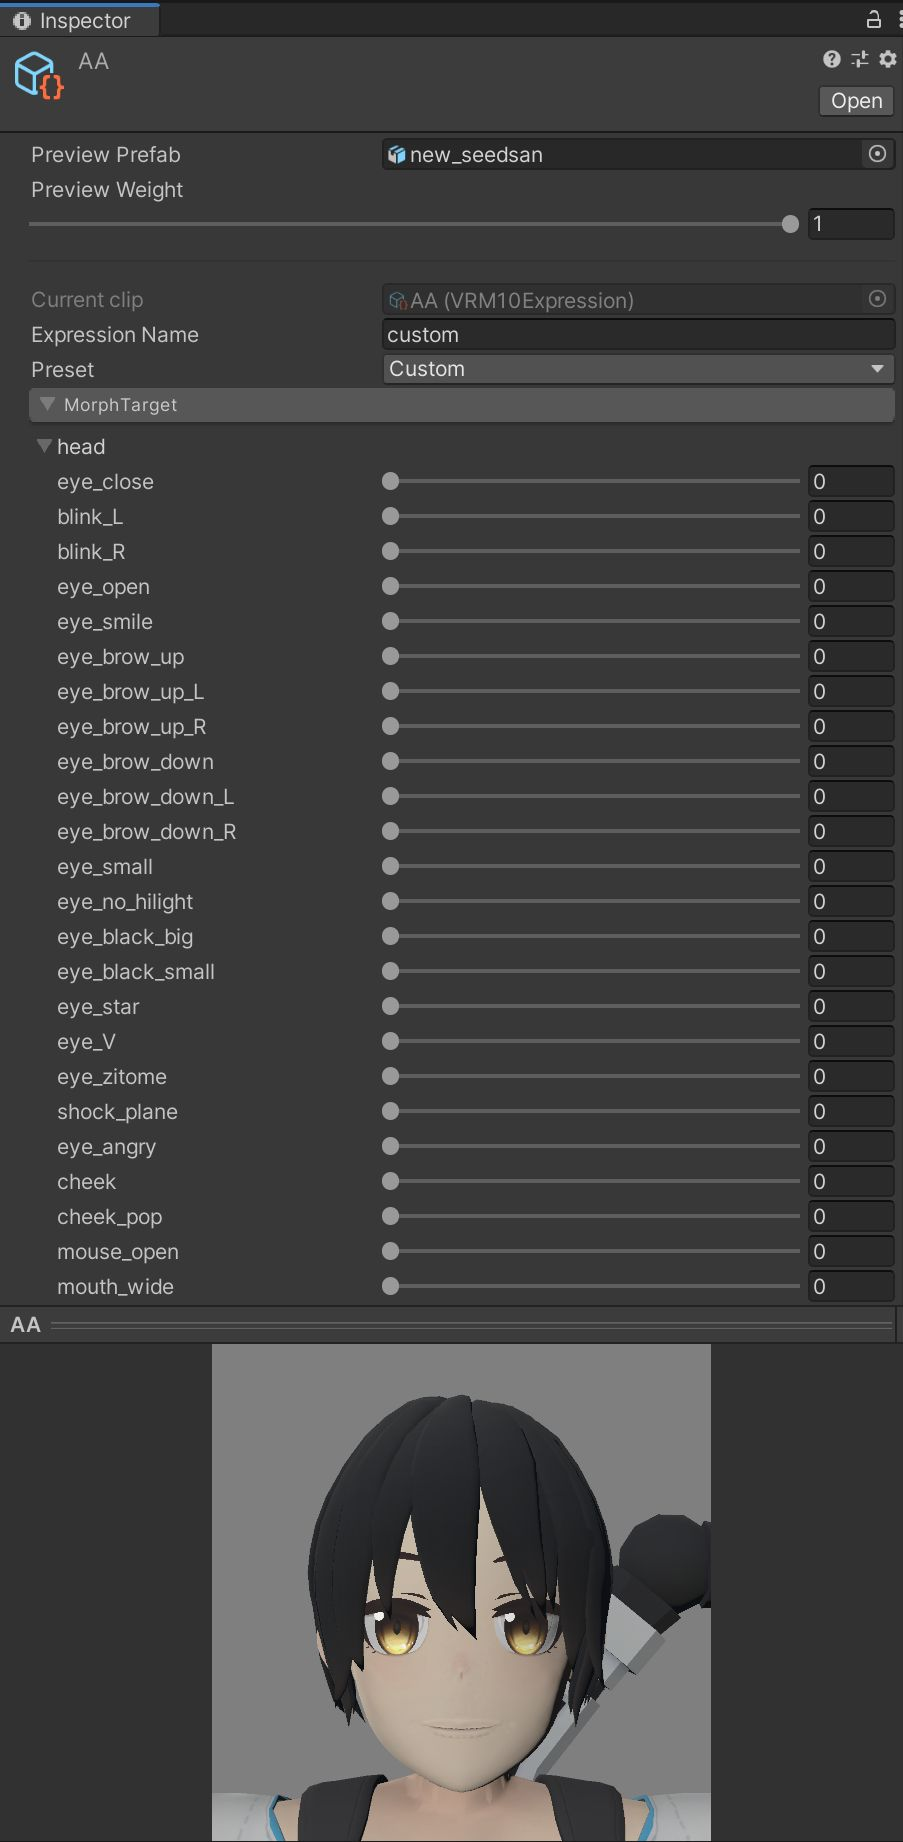
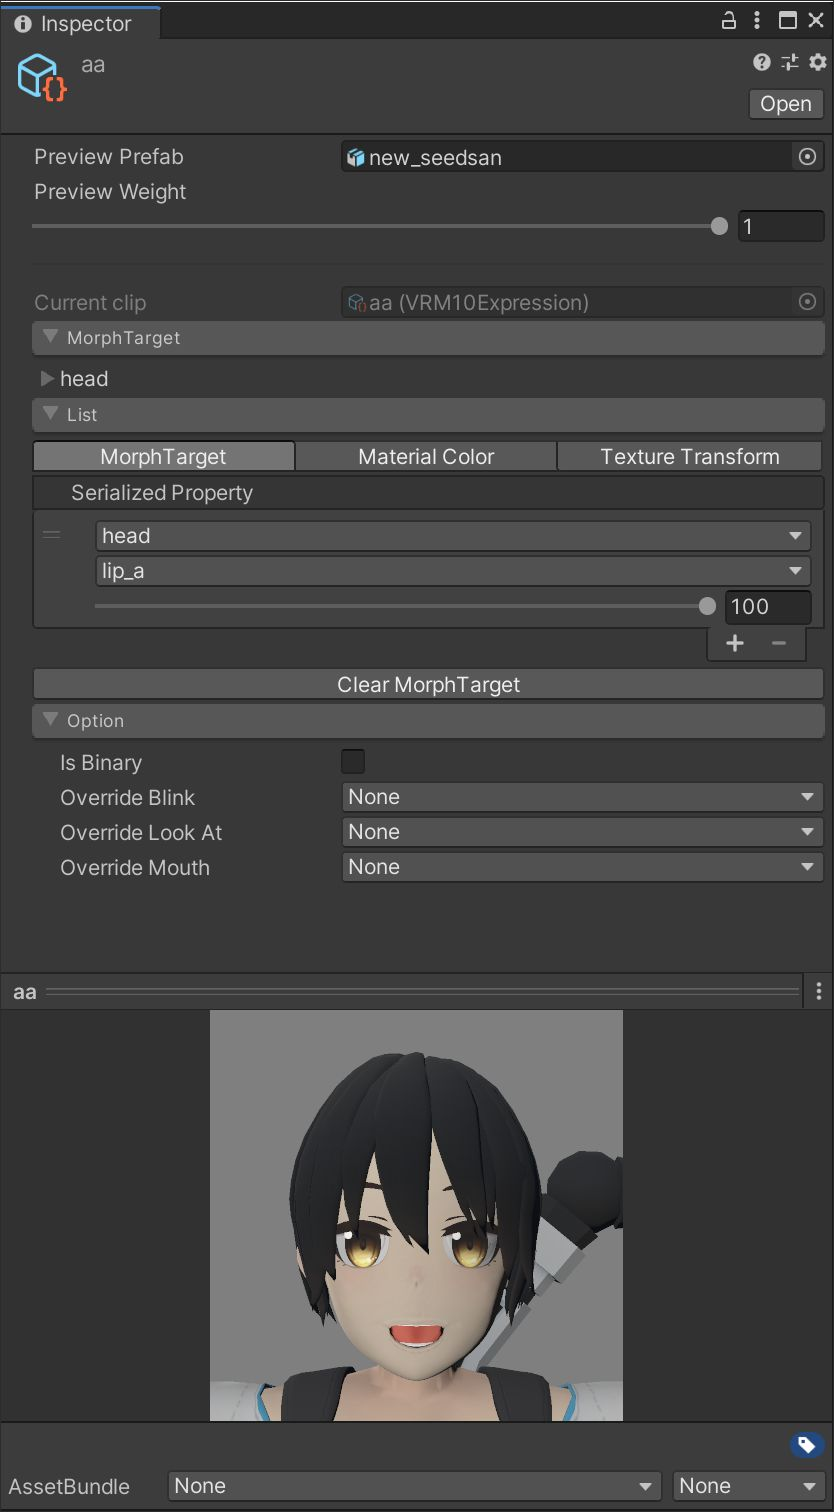
update expression

diff --git a/assets/scss/_styles_project.scss b/assets/scss/_styles_project.scss
@@ -4,14 +4,18 @@
     }
 
     > h3 {
-        border-bottom: solid 2px gray;
+        border-bottom: solid 4px gray;
     }
 
     > h4 {
-        border-bottom: solid 1px gray;
+        border-bottom: solid 2px gray;
     }
 
     > h5 {
+        border-bottom: solid 1px gray;
+    }
+
+    > h6 {
         border-bottom: solid 1px gray;
     }
 }
@@ -31,4 +35,3 @@ main div.date {
     border-radius: 5px;
     margin-bottom: 2em;
 }
-

diff --git a/content/ja/docs/univrm1/vrm1_tutorial/expression.md b/content/ja/docs/univrm1/vrm1_tutorial/expression.md
@@ -13,10 +13,95 @@ Vrm-0.X の BlendShape は、 Vrm-1.0 の Expression に名称を変更しまし
 
 [VrmObject]({{< relref "vrm_object.md" >}}) の Expression GUI で設定します。
 
-{{< img width=400 src="images/vrm10/tutorial/vrm_expression_settings.jpg" >}}
+{{< img width=800 src="images/vrm10/tutorial/vrm_expression_settings.jpg" >}}
 
 ## 個別の Expression 設定
 
 ひとつずつ独立したアセットです。
 
+{{< img width=400 src="images/vrm10/tutorial/expression_asset.jpg" >}}
 {{< img width=400 src="images/vrm10/tutorial/expression.jpg" >}}
+
+### MorphTarget
+
+blend shape のある `SkinnedMeshRenderer` がリストされます。
+
+
+### List
+#### MorphTarget
+
+* MorphTarget の List 表示です
+
+#### MaterialColor
+
+Material 色を [0-1] の weight値でアニメーションさせることができます。
+
+* Color
+* EmissionColor
+* ShadeColor
+* RimColor
+* OutlineColor
+
+#### TextureTransform
+
+Texture の offset, scale を [0-1] の weight値でアニメーションさせることができます。
+
+### Option
+
+MorphTarget 以外の詳細な設定項目です。
+
+#### IsBinary
+
+漫画風の表現などで、中間の値を見せたくない場合に有効にしてください。
+中間の値を取ることができなくなります。
+
+#### Override
+
+プロシージャルな Expression の値を制御します。
+
+{{% alert title="プロシージャルなExpression" color="warning" %}}
+
+アプリケーションが自動的に weight 値を生成することが多いと想定される Expression に対して `プロシージャルなExpression` を定義しました。
+3つのグループ `Blink`, `LookAt`, `Mouth` を設定しています。
+
+| グループ | weight生成例                            | 含まれる Expression preset            |
+|----------|-----------------------------------------|---------------------------------------|
+| Blink    | ランダム                                | Blink, BlinkLeft, BlinkRight          |
+| LookAt   | VrmコンポーネントのLookAt機能による生成 | LookUp, LookDown, LookLeft, LookRight |
+| Mouth    | 音声やテキスト解析による生成            | Aa, Ih, Ou, Ee, Oh                    |
+
+{{% /alert %}}
+
+プロシージャルな Expression の Weight はシステムにより自動生成されることが想定され、
+その場合既存の Expression Weight との組み合わせで問題が発生する可能性があります。
+
+{{% alert title="Expressionの組み合わせで起こる問題の例" color="warning" %}}
+
+* 口が開く `happy` と同時に `aa` が適用される => 口が開きすぎて変になる
+* 目を閉じる `sad` と同時に `blink` が適用される => 目が2回閉じて瞼が頬を貫通してしまう
+* `blink` と同時に `lookRight` が適用される => 目が瞼を貫通してしまう
+
+{{% /alert %}}
+
+組み合わせ問題を回避するために自動生成される `Blink`, `LookAt`, `Mouth` の Weight 値を加工(Override)する機能です。
+Override 設定した Expression の Weight 値が 0 より大きいときに機能が有効になります。
+
+| 設定  | 機能                                       |
+|-------|--------------------------------------------|
+| None  | procedual.weight = procedual.weight        |
+| Block | procedual.weight = 0                       |
+| Blend | procedual.weight = (1 - expression.weight) |
+
+### Preview
+
+Expression アセットのインスペクターの下部の頭部表示画面です。
+Expression の設定を適用した結果を描画します。
+
+* Preview Prefab
+* Preview Weight: スライダーを動かすことで、[0-1] 間での変化をプレビューできます。Advanced の `IsBinary` チェックボックスの影響をテストできます。
+
+### 作業例
+
+| asset | morphtarget       |
+|-------|-------------------|
+| aa    | head.lip_a => 100 |
